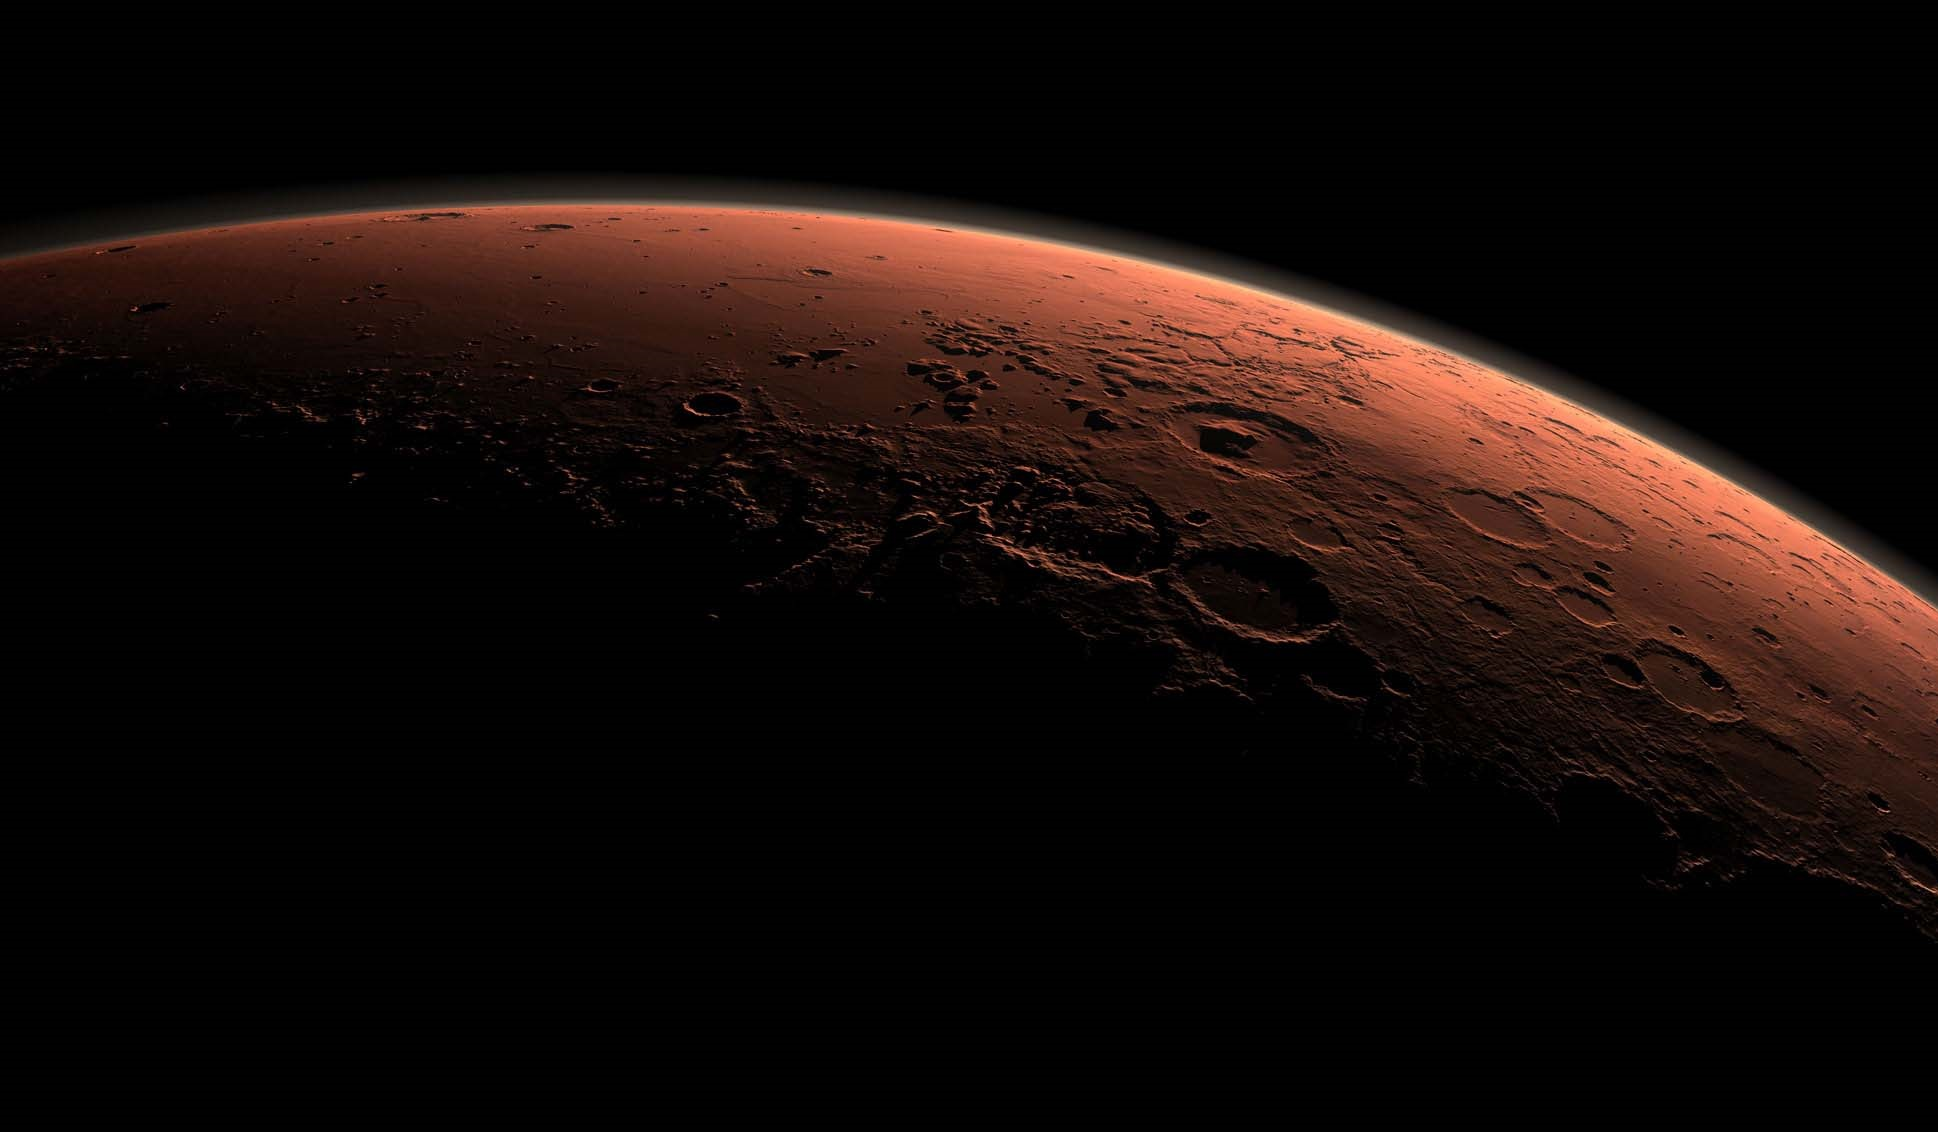
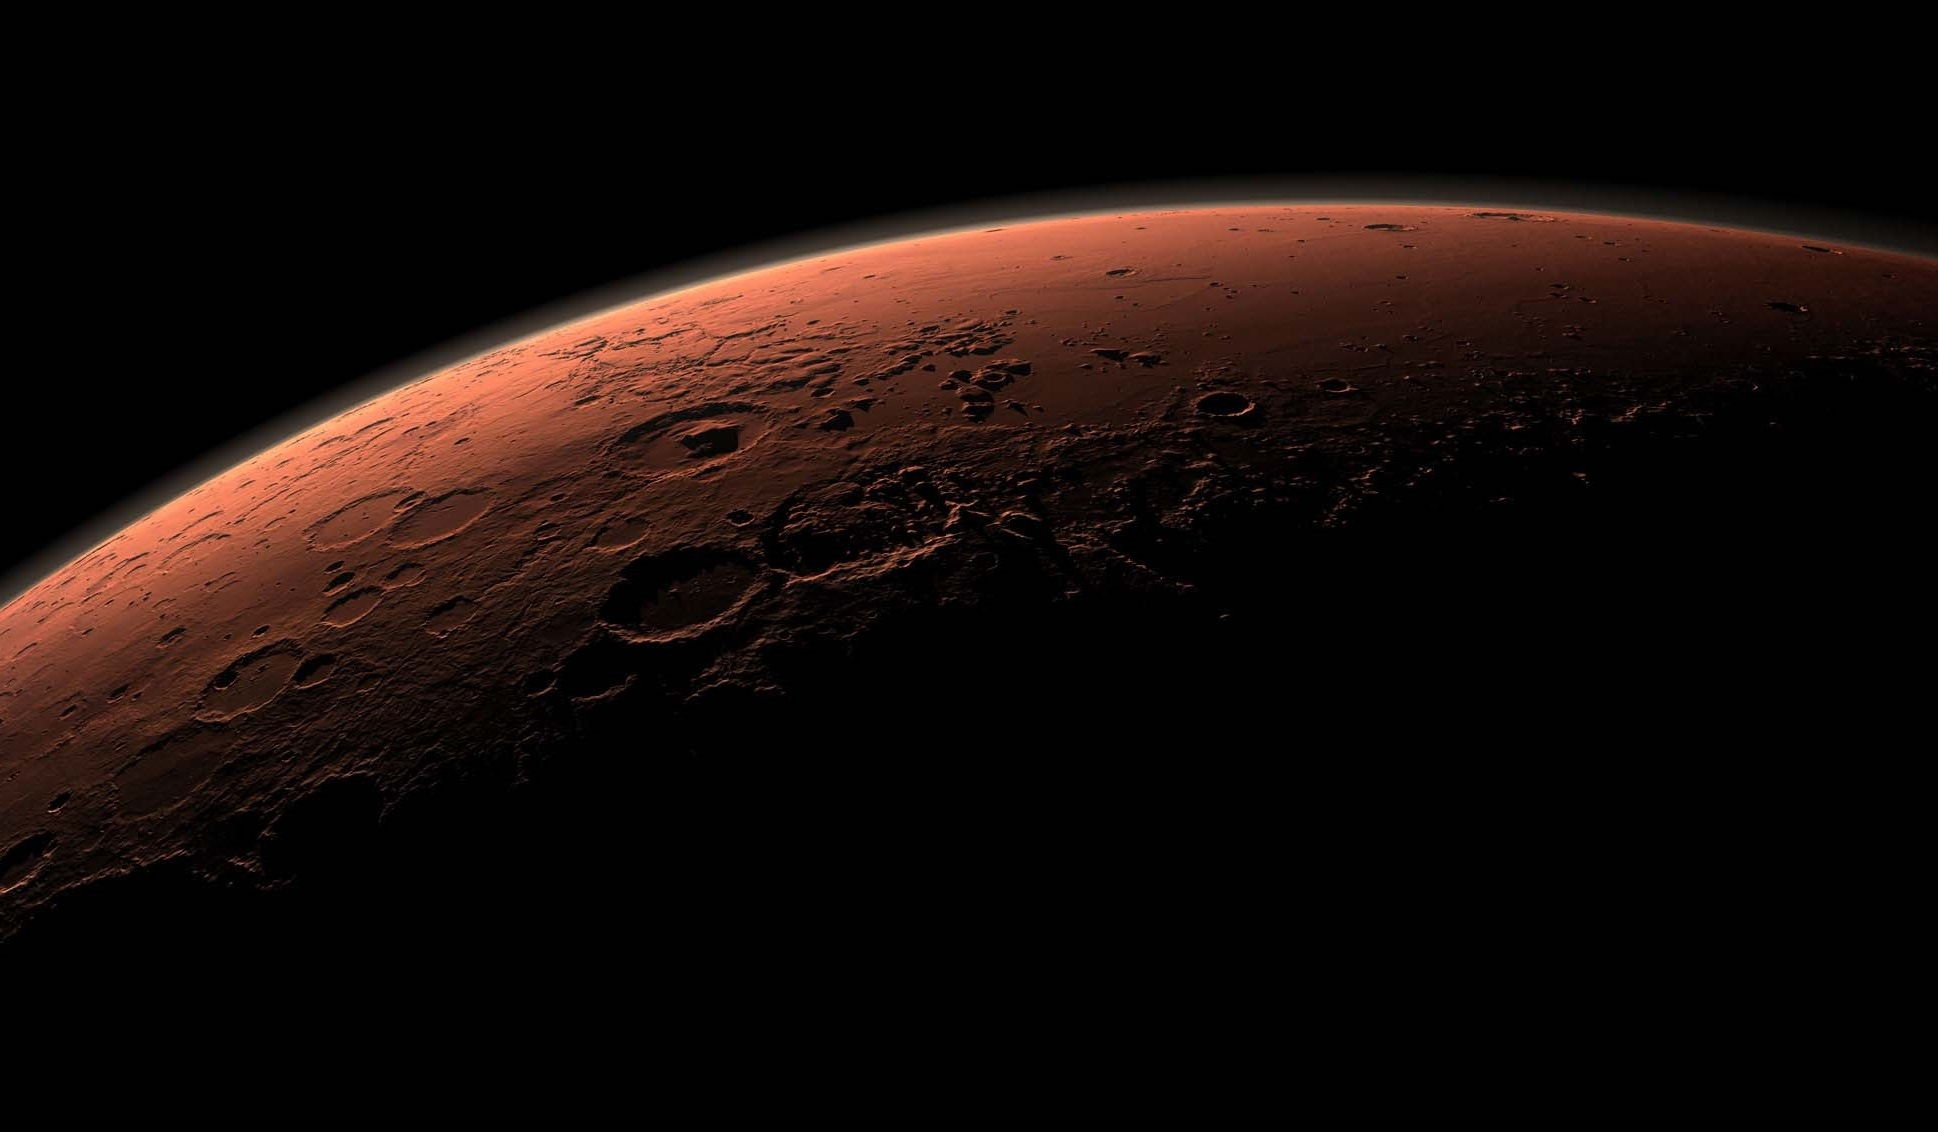
fix for the balnk card

diff --git a/cards-list.html b/cards-list.html
@@ -23,7 +23,7 @@
 </head>
 <html>
 
-<body background="images/mars.jpg" style="background-color:black;background-repeat:no-repeat; background-size:100%">
+<body>
 
 
   <div id="buttonsContainer">
@@ -6743,7 +6743,7 @@
                       <div class="resource ocean-resource" style="position:absolute;margin-left:-39px;margin-top:36px;"></div>
                       :<div class="resource money">3</div>
                     <div class="description " style="text-align:center;margin-top:0px; ">
-                        (Effect: When any ocean tile is placed, increase your MC production 1 step. Your bonus for placing adjacent to oceans in 3MC instead of 2MC.)
+                        (Effect: When any ocean tile is placed, increase your MC production 1 step. Your bonus for placing adjacent to oceans is 3MC instead of 2MC.)
                     </div>
                 </div>
                 <div style="font-size:22px;margin-top:10px;margin-left:10px;font-family:Times;color:white;
@@ -6853,7 +6853,7 @@
             <div class="resource money" style="margin-left:70px;margin-right:20px;margin-top:20px;">36</div>
             </div>
             <div class="description" style="margin-top:0px;text-align:center;">
-              (You start with 46 MC. When you perform an action, the wild tag counts as any tag of your choice.)
+              (You start with 36 MC. When you perform an action, the wild tag counts as any tag of your choice.)
             </div>
           </div>
         </li>
@@ -6873,7 +6873,7 @@
                 <div class="card-icon card-icon-building" style="margin-top:-17px;">&#x2617;</div>
               </div>
               <div class="description" style="text-align:center;margin-top:0px;">
-                (Action: Increase your energy production 1 step IF YOU HAVE NO ENERGY RESOURCES, or sped 3MC to draw a building card.)
+                (Action: Increase your energy production 1 step IF YOU HAVE NO ENERGY RESOURCES, or spend 3MC to draw a building card.)
               </div>
             </div>
             <div class="factorum">
@@ -6901,7 +6901,7 @@
               OR -<div class="resource red-outline" style="background:white;">?</div>:
               PAY<div class="resource money">3</div>
               <div class="description" style="text-align:center;margin-top:0px;">
-                (Effect: When aplayer causes another player to decrease production or lose resources, pay 3MC to the victim,
+                (Effect: When a player causes another player to decrease production or lose resources, pay 3MC to the victim,
                 or as much as possible.)
               </div>
             </div>
@@ -6939,7 +6939,7 @@
               "></div><div class="tile empty-tile-small"></div>
                : <div class="resource" style="background:white;">?</div>
               <div class="description" style="text-align:center;margin-top:0px;">
-                (Effect: Each new adjacency between your tile and an opponent's tile gives you a standard resource of your choice(regardless of who just placed a tile).)
+                (Effect: Each new adjacency between your tile and an opponent's tile gives you a standard resource of your choice (regardless of who just placed a tile).)
               </div>
             </div>
             <div class="philares">
@@ -8081,7 +8081,7 @@
     <div class="ul-title">GLOBAL EVENTS</div>
 
     <!--G01-->
-    <li onclick="getClickedCard();" class="filterDiv global-card turmoil">
+    <li id="G01" onclick="getClickedCard();" class="filterDiv global-card turmoil">
       <div class="globalTitle">Gloabal Event</div>
       <div class="globalTitle globalTitle2">Gloabal Event</div>
       <div class="globalTag globalTag1"></div>

diff --git a/css/mystyles.css b/css/mystyles.css
@@ -4,6 +4,14 @@
     src: url(../fonts/Prototype.ttf);
 }
 
+body {
+  background-image: url("../images/mars.jpg");
+  background-color:black;
+  background-repeat:no-repeat;
+  background-size:100%;background-attachment: fixed;
+  background-position-y:-200px;
+}
+
 /*project card div*/
 .filterDiv {
     cursor: pointer;
@@ -1691,6 +1699,9 @@ border-right: 2px solid rgb(137,137,137);
 }
 
 #buttonsContainer {
+  position: sticky;
+  top:-256px;
+  z-index: 2;
   border-top: 2px solid rgb(221,221,221);
   border-left: 2px solid rgb(221,221,221);
   border-bottom: 2px solid rgb(137,137,137);
@@ -1700,9 +1711,8 @@ border-right: 2px solid rgb(137,137,137);
   background: linear-gradient(to bottom right, #cccccc,#919191, #c9c9c9,#aaaaaa,#cacaca, #919191,#cccccc);
   box-shadow: 0 0 10px 5px black;
   width: 879px;
-  margin-top: 40px;
-  margin-left: 40px;
   border-radius: 20px;
+  margin-left: 40px;
 
 }
 
